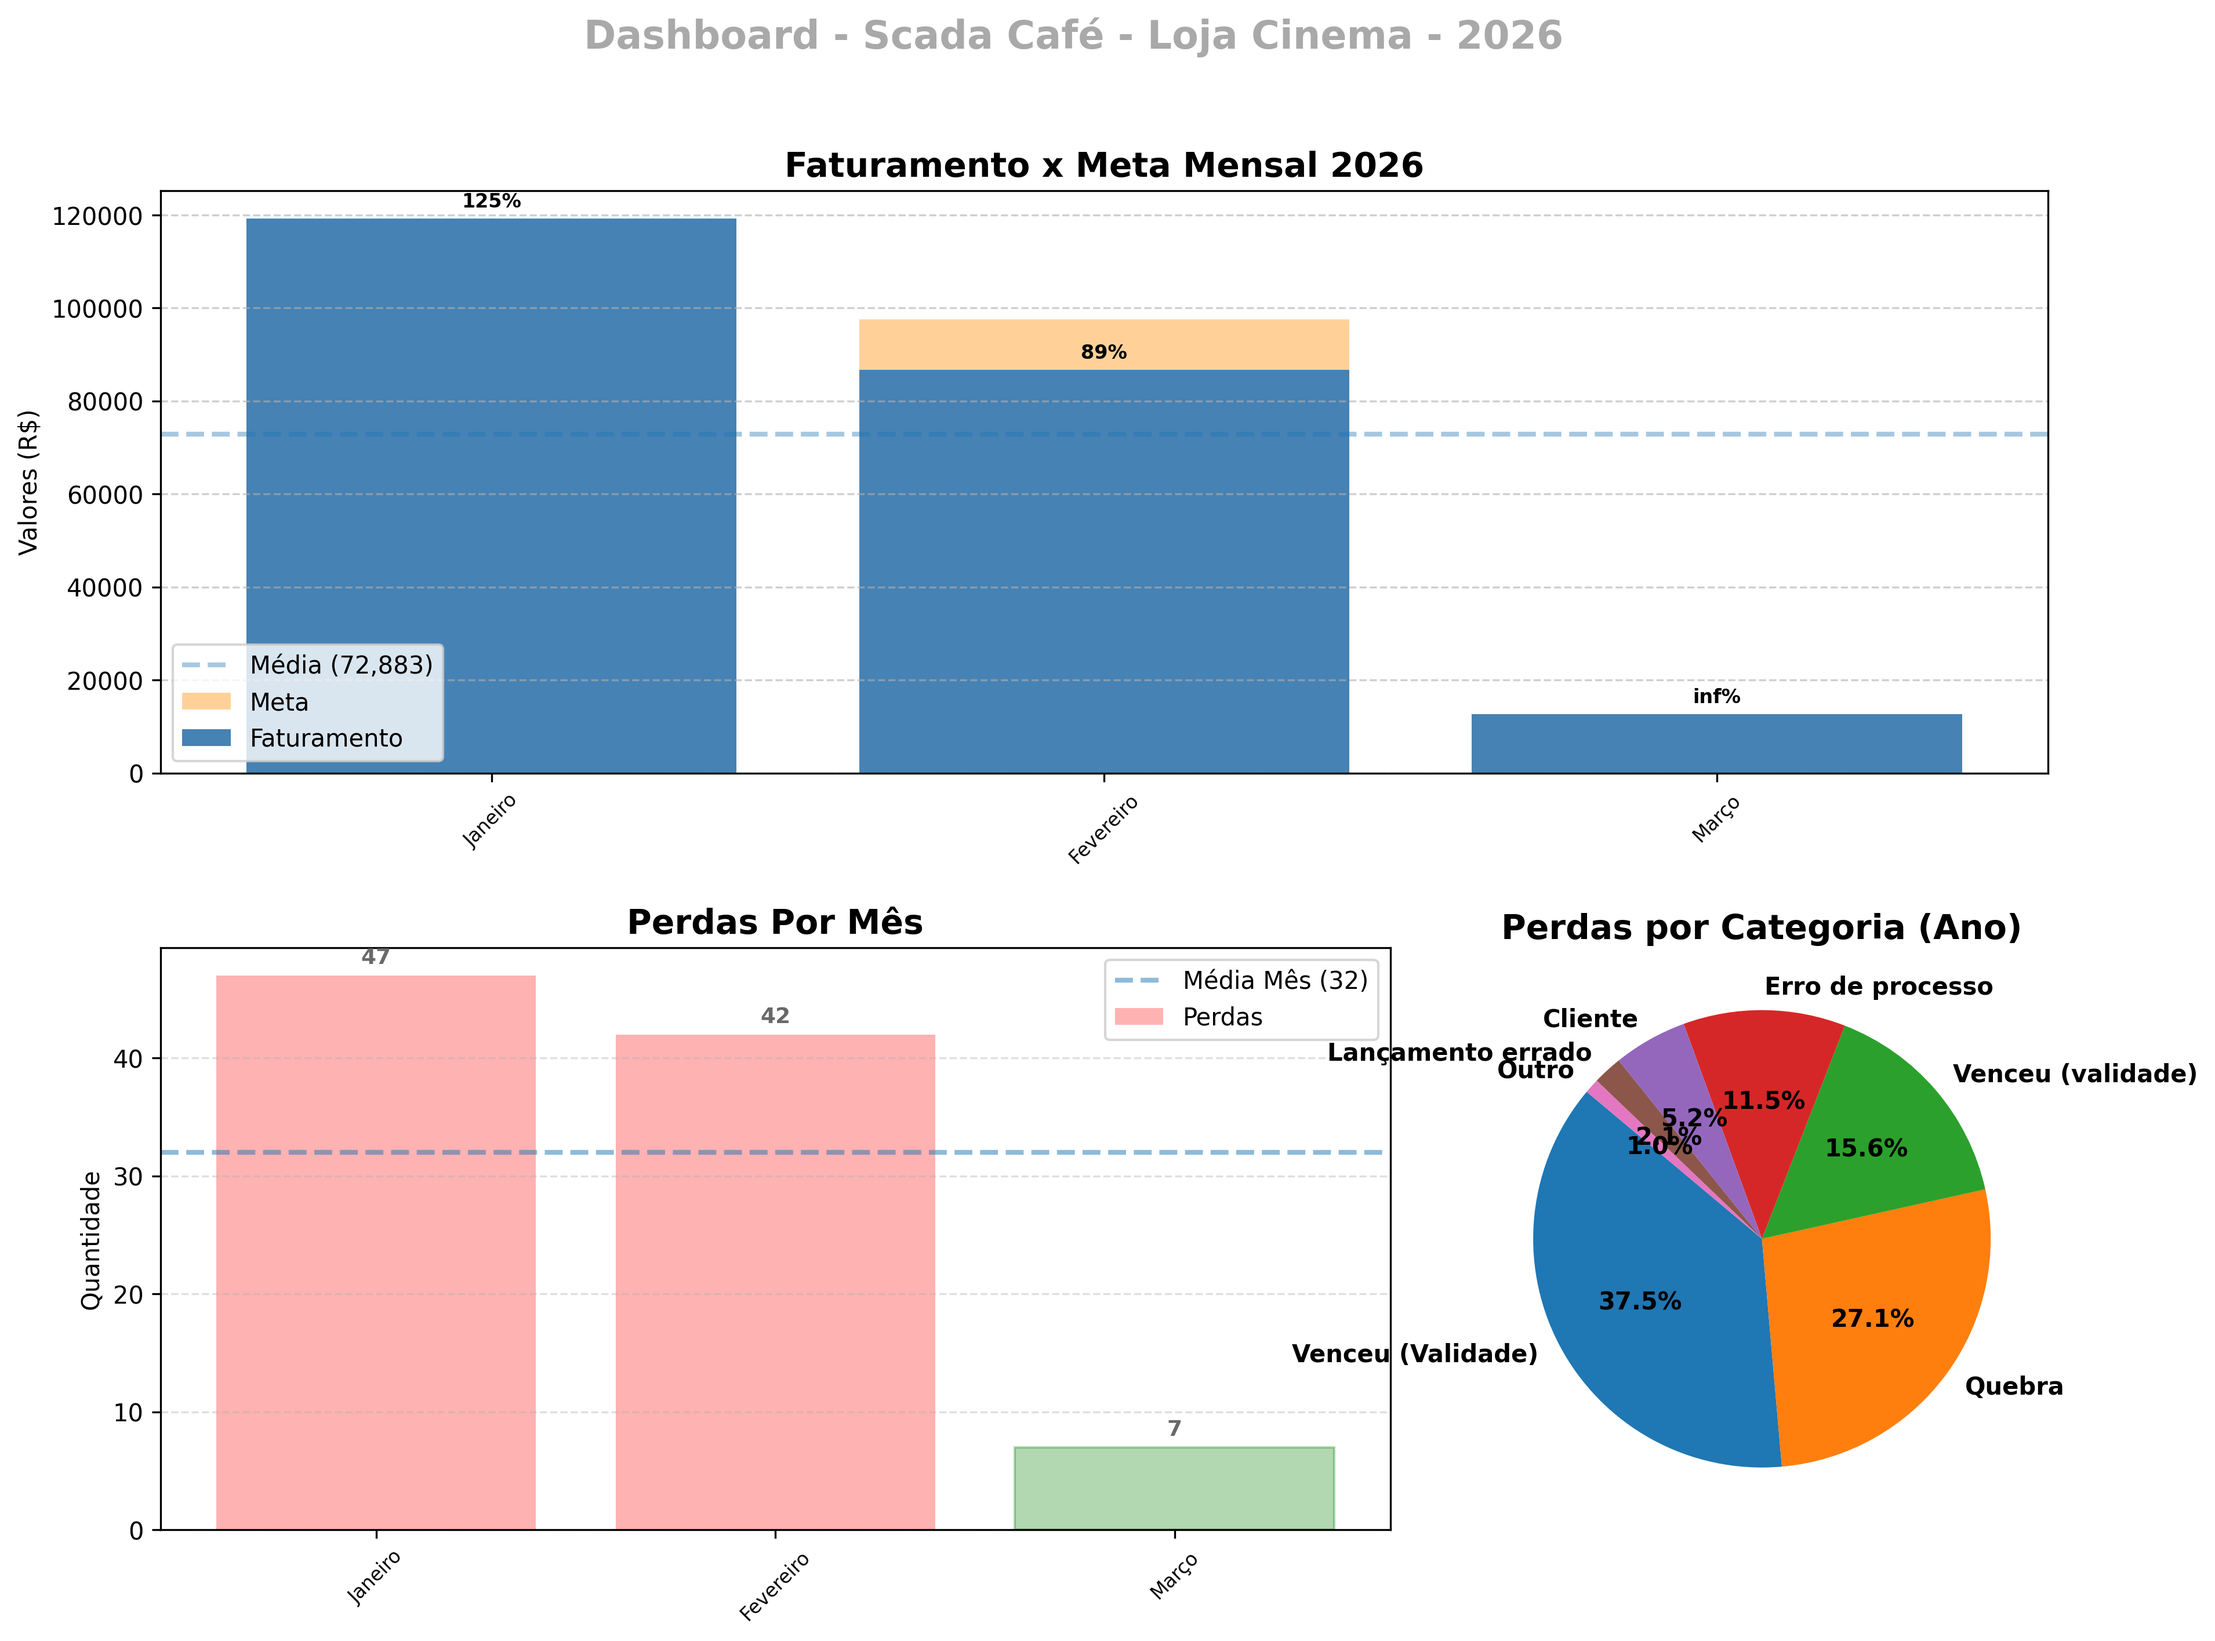
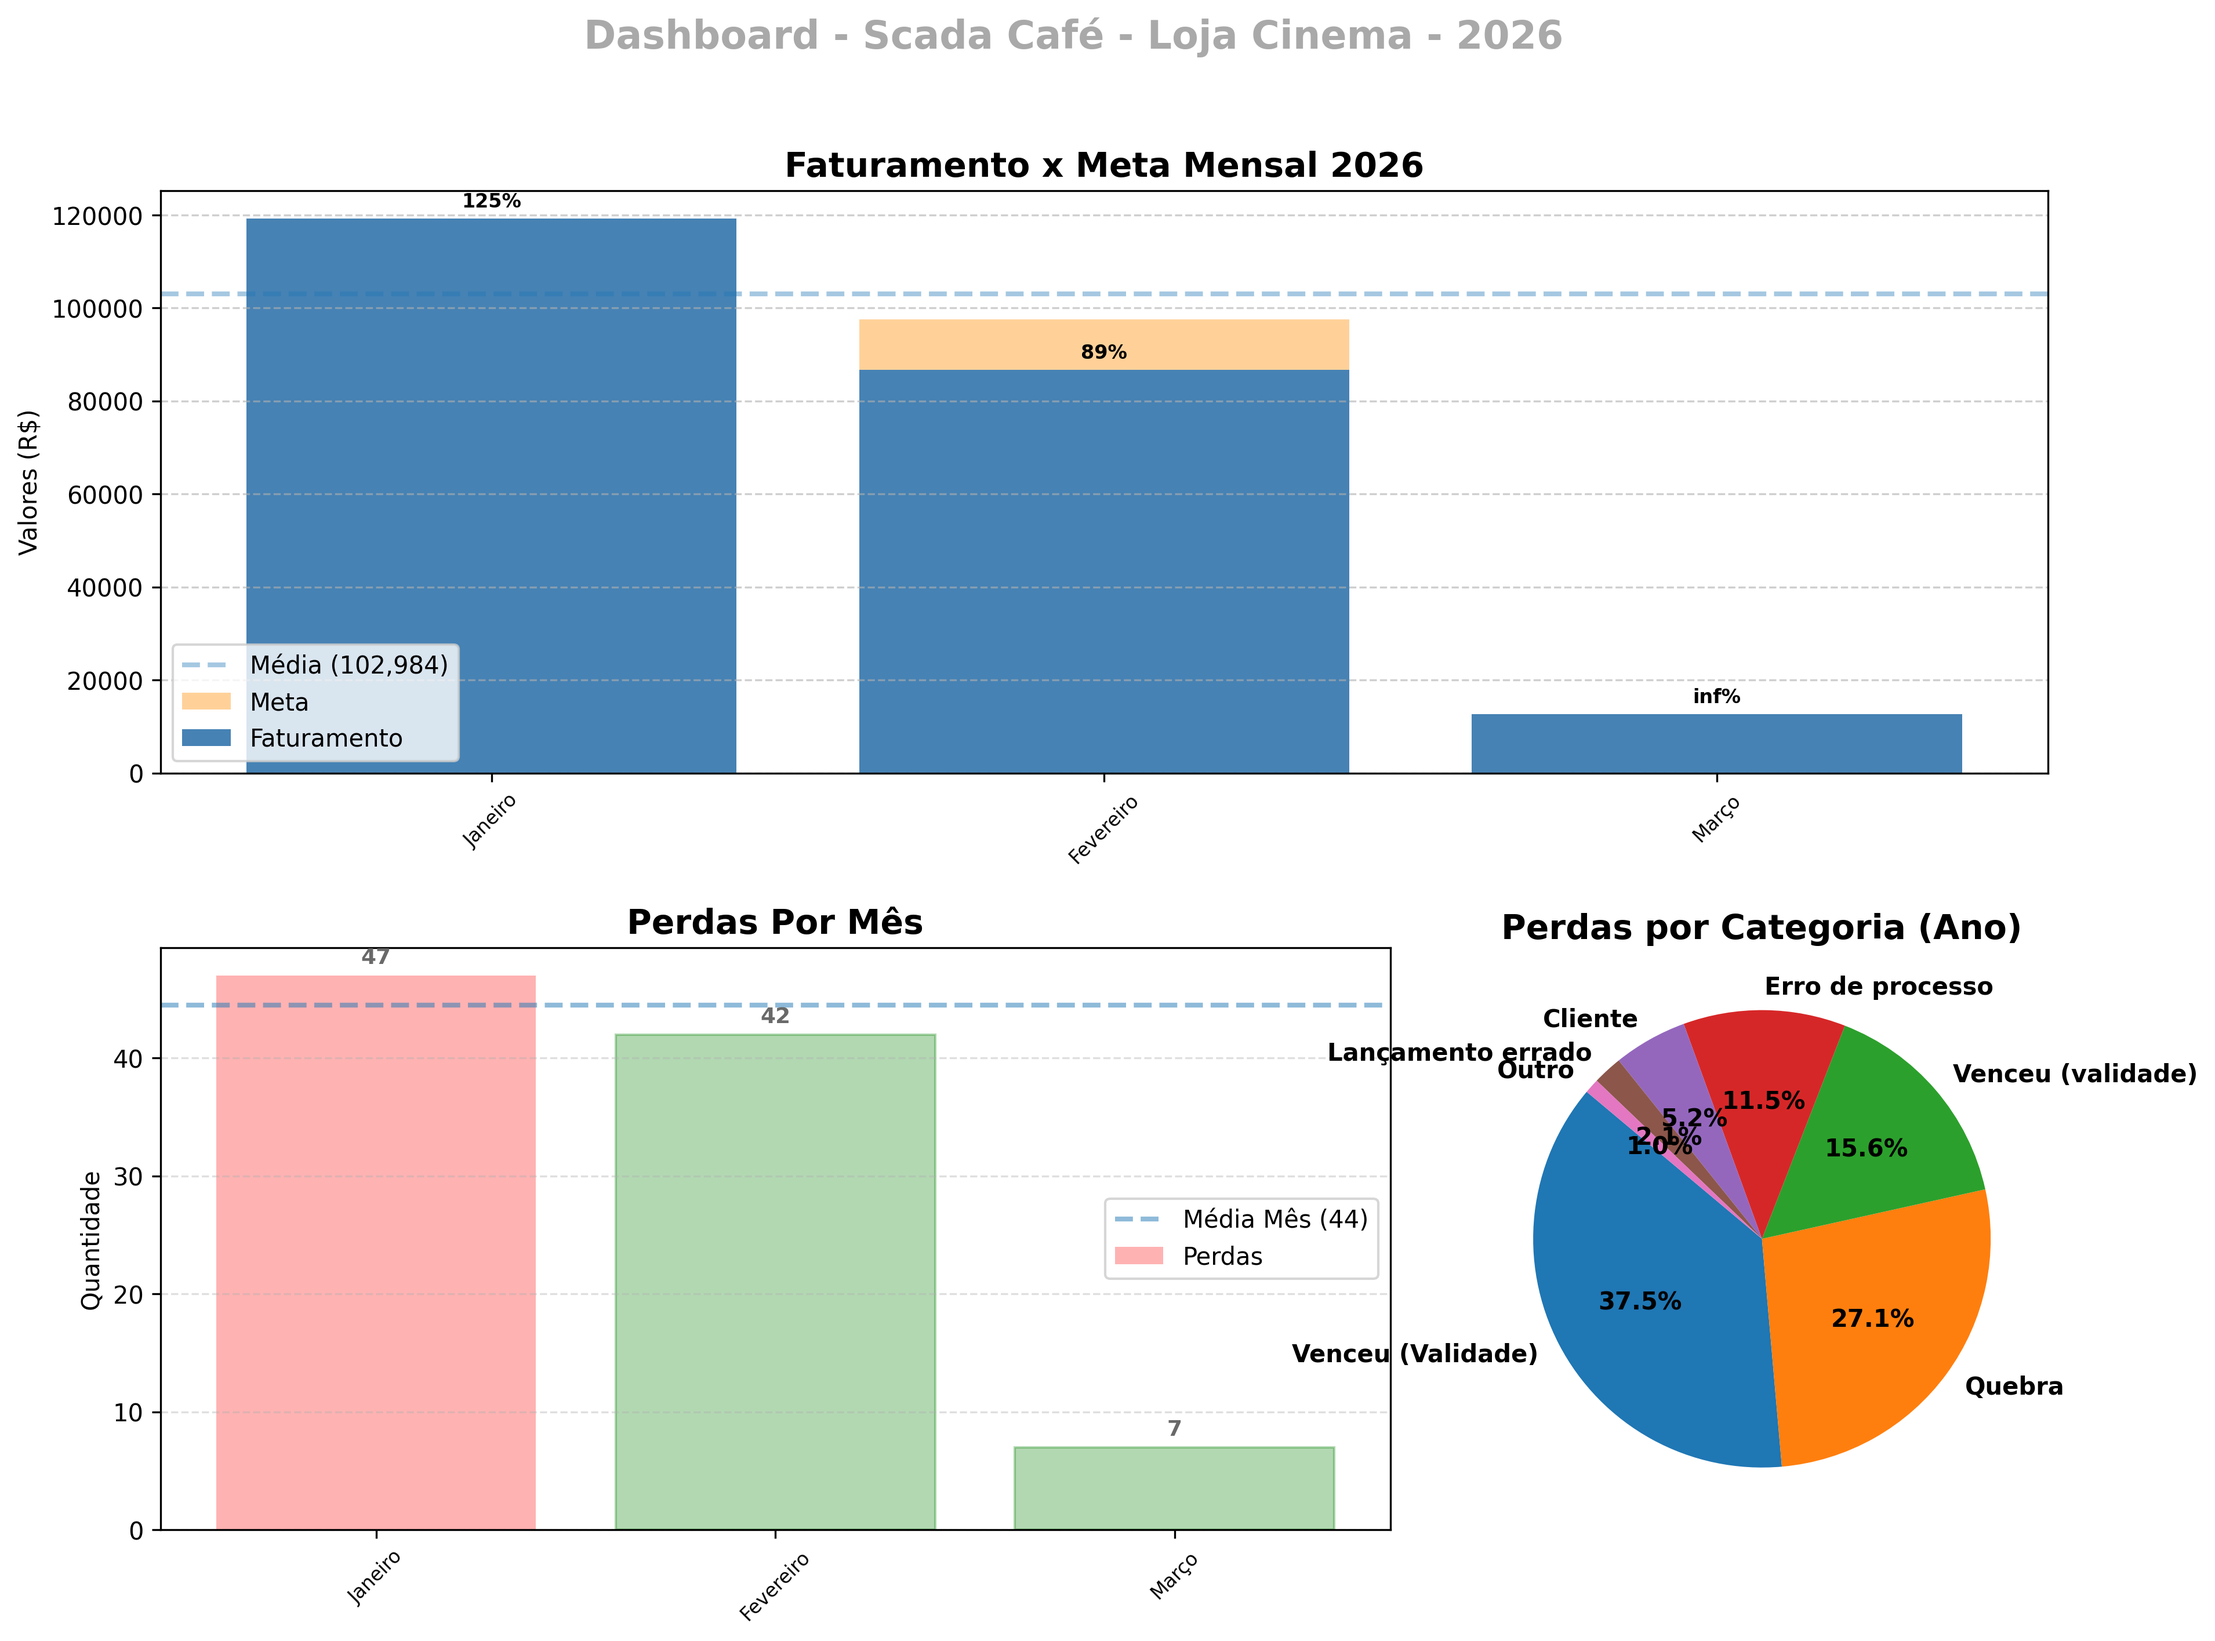
update

diff --git a/scada_analise.py b/scada_analise.py
@@ -829,7 +829,11 @@ while True:
         # Filtrar meses com perdas > 0
         perdas_por_mes = perdas_por_mes.loc[perdas_por_mes['qtd'] > 0].copy()
 
-        media_perdas_mes = perdas_por_mes['qtd'].mean()
+        # Calcular média do mês excluindo o mes atual:
+        mes_atual = datetime.today().month
+        perdas_meses_fechados = perdas_por_mes[perdas_por_mes['data'] < mes_atual]
+        media_perdas_mes = perdas_meses_fechados['qtd'].mean()
+
 
         perdas_mes = axs["C"].bar(
             perdas_por_mes['mes'],
@@ -941,7 +945,12 @@ while True:
         faturamento_por_mes = faturamento_por_mes.sort_values("mes")
 
         # Média do faturamento
-        media_faturamento_mes = faturamento_por_mes["faturamento"].mean()
+        mes_atual = datetime.today().month
+        faturamento_meses_fechados = faturamento_por_mes[
+            faturamento_por_mes["mes"] < mes_atual
+        ]
+        media_faturamento_mes = faturamento_meses_fechados["faturamento"].mean()
+
 
         barras_meta = axs["A"].bar(
             faturamento_por_mes["mes_nome"],
@@ -1047,6 +1056,7 @@ while True:
 
         axs["C"].set_ylabel('Ticket Médio (R$)', color='steelblue', fontsize=10)
         axs["C"].set_xlabel('Mês')
+        axs["C"].set_xticks(faturamento_por_dia["mes"])
         axs["C"].grid(True, linestyle='--', alpha=0.4)
 
         for mes, ticket in zip(ticket_medio_mes["mes"], ticket_medio_mes["ticket_medio"]):
@@ -1141,7 +1151,12 @@ while True:
         faturamento_por_mes["Percentual"] = faturamento_por_mes["faturamento"] / faturamento_por_mes["meta"]
 
         # Média do faturamento
-        media_faturamento_mes = faturamento_por_mes["faturamento"].mean()
+        mes_atual = datetime.today().month
+        faturamento_meses_fechados = faturamento_por_mes[
+            faturamento_por_mes["mes"] < mes_atual
+        ]
+        media_faturamento_mes = faturamento_meses_fechados["faturamento"].mean()
+
 
         barras_meta = axs["A"].bar(
             faturamento_por_mes["mes_nome"],
@@ -1211,7 +1226,11 @@ while True:
         # Filtrar meses com perdas > 0
         perdas_por_mes = perdas_por_mes.loc[perdas_por_mes['qtd'] > 0].copy()
 
-        media_perdas_mes = perdas_por_mes['qtd'].mean()
+        # Calcular média do mês excluindo o mes atual:
+        mes_atual = datetime.today().month
+        perdas_meses_fechados = perdas_por_mes[perdas_por_mes['data'] < mes_atual]
+        media_perdas_mes = perdas_meses_fechados['qtd'].mean()
+
 
         perdas_mes = axs["B"].bar(
             perdas_por_mes['mes'],
@@ -1300,6 +1319,24 @@ while True:
 
         # Criação de função para enviar email:
         def enviar_email():
+
+            # ---- GARANTE QUE TODAS AS VARIÁVEIS NUMÉRICAS SÃO FLOAT ----
+            meta_mes_float = float(meta_mes)
+            total_fat_mes_corrente_float = float(total_fat_mes_corrente)
+            media_fat_dia_float = float(media_fat_dia)
+            media_cupom_float = float(media_cupom)
+            ticket_medio_mes = base_filtro_mes["ticket_medio"].mean()
+            if isinstance(ticket_medio_mes, pd.DataFrame):
+                ticket_medio_mes_float = float(ticket_medio_mes.iloc[0, 0])
+            elif isinstance(ticket_medio_mes, pd.Series):
+                ticket_medio_mes_float = float(ticket_medio_mes.iloc[0])
+            else:
+                ticket_medio_mes_float = float(ticket_medio_mes)
+            falta_para_meta_float = float(falta_para_meta)
+            proj_fat_mes_float = float(proj_fat_mes)
+            meta_ticket_dia_float = float(meta_ticket_dia)
+            meta_fat_dia_float = float(meta_fat_dia)
+            
             msg = MIMEMultipart()
             msg["Subject"] = f"Relatório Scada Café - Loja Cinema - {ANO_EXIBICAO}"
             msg["From"] = "alex.pereira82log@gmail.com"
@@ -1350,8 +1387,8 @@ while True:
             <p style='margin:0;'>- Faturamento Total: <strong>R$ {total_fat_mes_corrente:,.2f}</strong></p>
             <p style='margin:0;'>- Faturamento Médio Dia: <strong>R$ {media_fat_dia:,.2f}</strong></p>
             <p style='margin:0;'>- Média Cupons Dia: <strong>{media_cupom:.0f}</strong></p>
-            <p style='margin:0;'>- Ticket Médio Dia: <strong>R$ {ticket_medio_mes:,.2f}</strong></p>
-            
+            <p style='margin:0;'>- Ticket Médio Dia: <strong>R$ {ticket_medio_mes_float:,.2f}</strong></p>
+                  
             <p><strong><span style="text-decoration: underline;">PROJEÇÕES E RECUPERAÇÃO META:</span></strong></p>
             <p>- Ainda faltam <strong>R$ {falta_para_meta:,.2f}</strong> para atingirmos a  meta do mês.</p>
             <p> </p>
